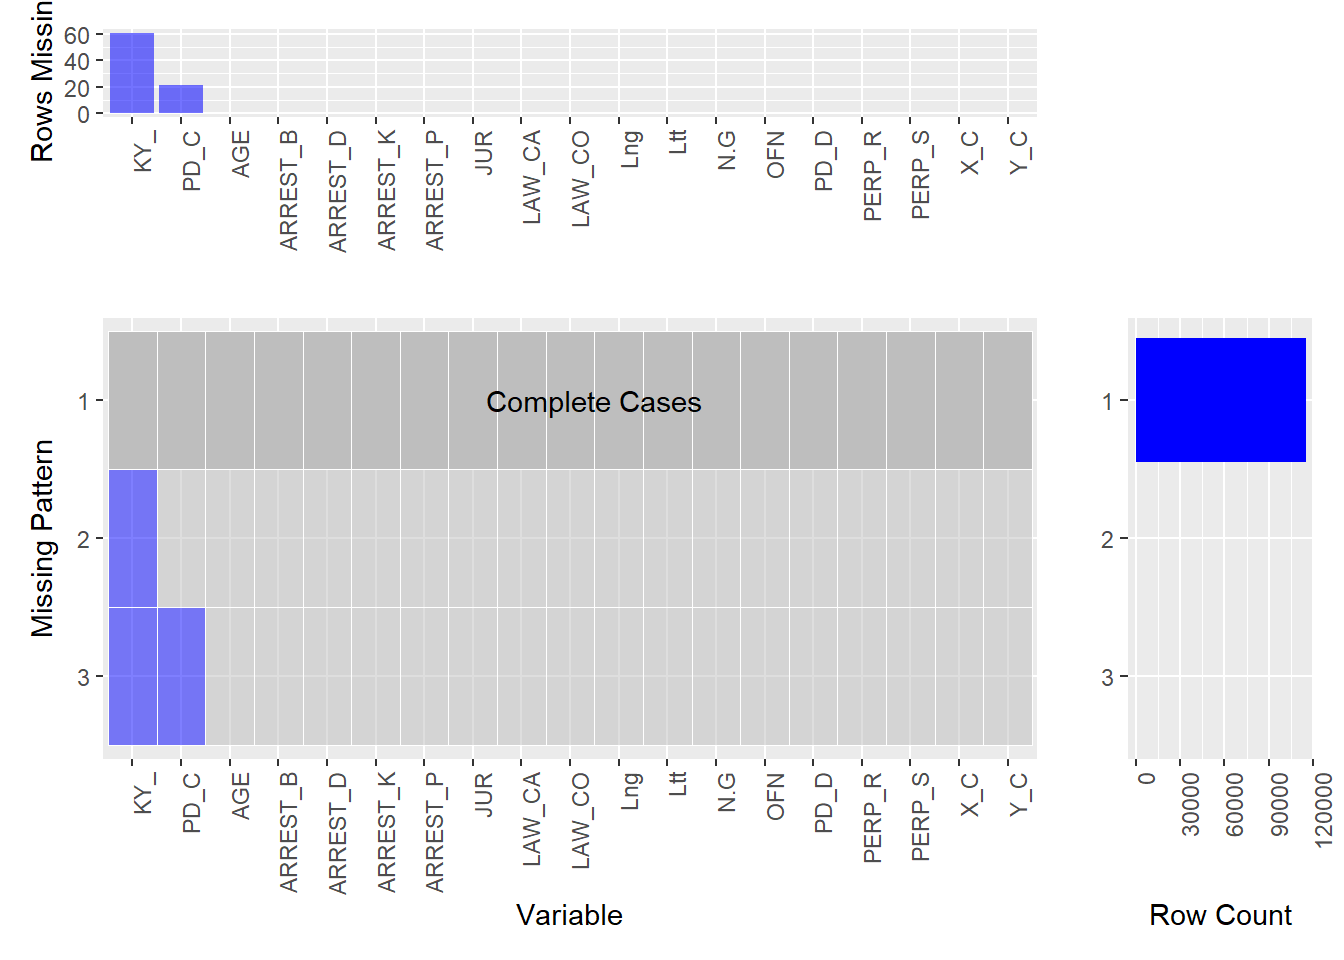
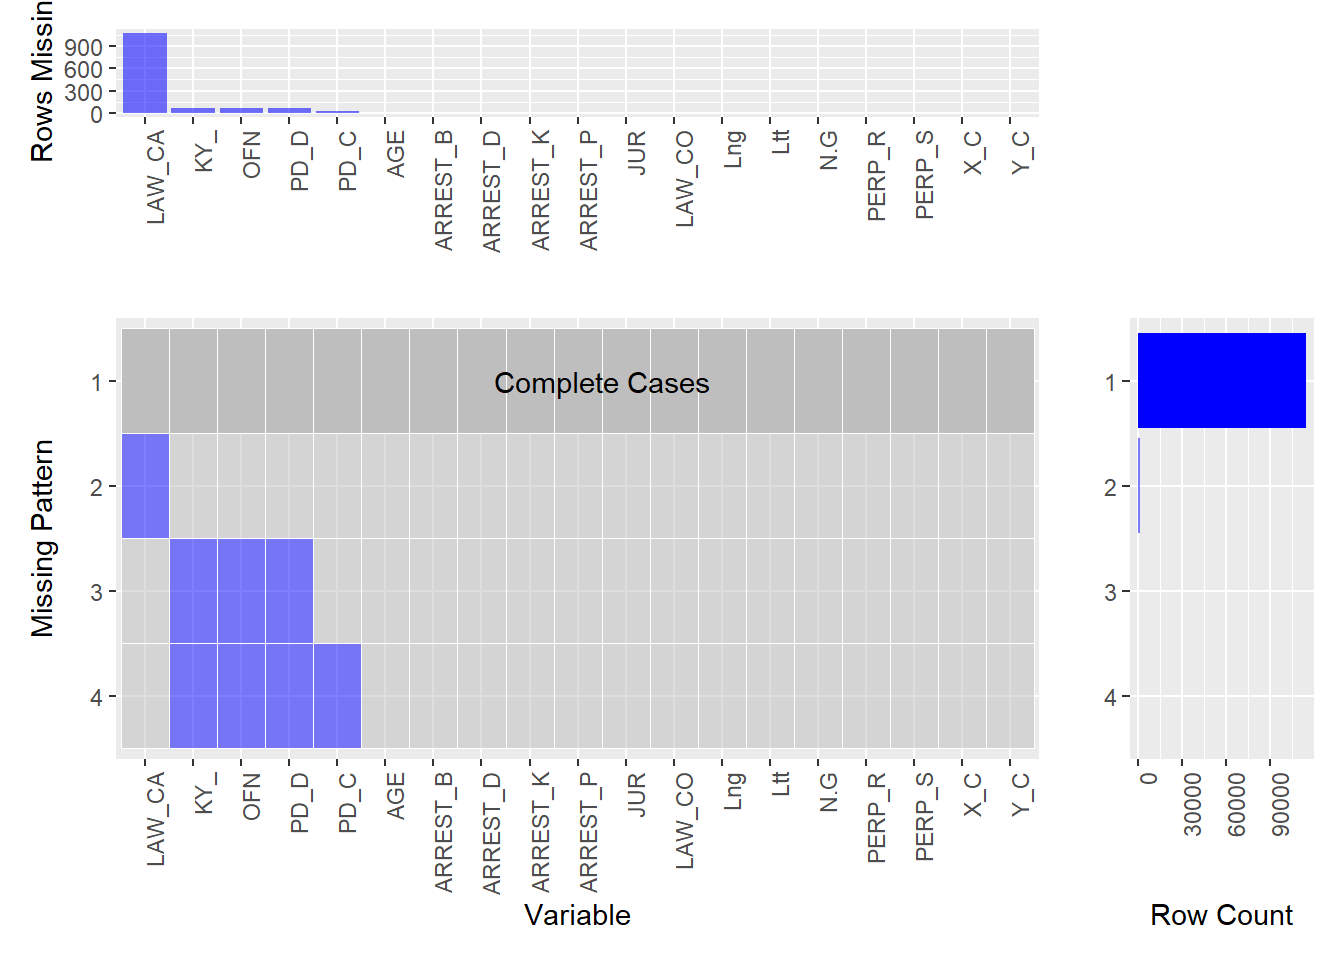
Minor tweaks to missing page.

diff --git a/docs/missing-values.html b/docs/missing-values.html
@@ -24,7 +24,7 @@
 <meta name="author" content="Ryan Rogers and Tyler Marshall" />
 
 
-<meta name="date" content="2021-11-17" />
+<meta name="date" content="2021-11-18" />
 
   <meta name="viewport" content="width=device-width, initial-scale=1" />
   <meta name="apple-mobile-web-app-capable" content="yes" />
@@ -84,9 +84,8 @@
 <li class="chapter" data-level="3" data-path="data-transformation.html"><a href="data-transformation.html"><i class="fa fa-check"></i><b>3</b> Data transformation</a></li>
 <li class="chapter" data-level="4" data-path="missing-values.html"><a href="missing-values.html"><i class="fa fa-check"></i><b>4</b> Missing values</a>
 <ul>
-<li class="chapter" data-level="4.1" data-path="missing-values.html"><a href="missing-values.html#composing-our-visualization-for-missing-data"><i class="fa fa-check"></i><b>4.1</b> Composing our Visualization for Missing Data</a></li>
-<li class="chapter" data-level="4.2" data-path="missing-values.html"><a href="missing-values.html#importing-the-arrests-dataset"><i class="fa fa-check"></i><b>4.2</b> Importing the Arrests Dataset</a></li>
-<li class="chapter" data-level="4.3" data-path="missing-values.html"><a href="missing-values.html#visualizing-the-missing-values"><i class="fa fa-check"></i><b>4.3</b> Visualizing the Missing Values</a></li>
+<li class="chapter" data-level="4.1" data-path="missing-values.html"><a href="missing-values.html#importing-the-arrests-dataset"><i class="fa fa-check"></i><b>4.1</b> Importing the Arrests Dataset</a></li>
+<li class="chapter" data-level="4.2" data-path="missing-values.html"><a href="missing-values.html#visualizing-the-missing-values"><i class="fa fa-check"></i><b>4.2</b> Visualizing the Missing Values</a></li>
 </ul></li>
 <li class="chapter" data-level="5" data-path="results.html"><a href="results.html"><i class="fa fa-check"></i><b>5</b> Results</a></li>
 <li class="chapter" data-level="6" data-path="interactive-component.html"><a href="interactive-component.html"><i class="fa fa-check"></i><b>6</b> Interactive component</a></li>
@@ -112,19 +111,17 @@
             <section class="normal" id="section-">
 <div id="missing-values" class="section level1" number="4">
 <h1><span class="header-section-number">Chapter 4</span> Missing values</h1>
-<div id="composing-our-visualization-for-missing-data" class="section level2" number="4.1">
-<h2><span class="header-section-number">4.1</span> Composing our Visualization for Missing Data</h2>
-<p>We start by introducing a function that will visualize missing values in our dataset. The code to do this can be seen below:</p>
+<div id="importing-the-arrests-dataset" class="section level2" number="4.1">
+<h2><span class="header-section-number">4.1</span> Importing the Arrests Dataset</h2>
+<p>We are now ready to look out our dataset. The main dataset for our project is data on New York City arrests. For this particular analysis, we will focus only on the NYC arrest data for the current year (2021).</p>
 </div>
-<div id="importing-the-arrests-dataset" class="section level2" number="4.2">
-<h2><span class="header-section-number">4.2</span> Importing the Arrests Dataset</h2>
-<p>We are now ready to look out our dataset. First, we import the data from its source:</p>
-</div>
-<div id="visualizing-the-missing-values" class="section level2" number="4.3">
-<h2><span class="header-section-number">4.3</span> Visualizing the Missing Values</h2>
-<p>Our last step will be to look at our dataset for missing values.</p>
-<p><img src="finalproj_files/figure-html/unnamed-chunk-8-1.png" width="672" /><img src="finalproj_files/figure-html/unnamed-chunk-8-2.png" width="672" /></p>
-<p>As we can see from the percentage visualization, there are only a small number of rows missing one of two columns: KY_CD (Key code), which is a generalized classification code, and PD_CD (Police Department code), which is a more granular code.</p>
+<div id="visualizing-the-missing-values" class="section level2" number="4.2">
+<h2><span class="header-section-number">4.2</span> Visualizing the Missing Values</h2>
+<p>Now that we have imported our data in its original form, we will look at our dataset for missing values. Before visualizing our missing values, however, we noticed that some of the entries in the data had empty strings (""), but were not classified as NA in the dataset. Since we felt these empty strings were the equivalent of NA, we changed them in our dataset before plotting our missing values.</p>
+<p><img src="finalproj_files/figure-html/unnamed-chunk-8-1.png" width="672" /></p>
+<p>From the first plot, we can see that there are 4 different patterns in our data with the most common pattern being no missing data. The plot above shows that there isn’t too much missing data in our dataset, but there are still a few variables that had missing values. The most common pattern where there was missing data is for just <code>LAW_CA</code> to be missing, and this happened around 1000 times in our dataset. <code>LAW_CA</code> is the level of the offense (felony, misdemeanor or violation), so it seems this is not always documented when the arrest occurs. The second most common pattern where data was missing was for the data to be missing <code>KY_</code>, <code>OFN</code>, and <code>PD_D</code>. This pattern was far less common and occurred under 100 times out of the 115,299 observations in the data. <code>KY_</code> is an internal classification keycode, <code>OFN</code> is a description of internal classification, and <code>PD_D</code> is a description of internal classification that is more granular than <code>OFN</code>. It seems that on occasion these codes and descriptions were not filled in when the arrest was made. The final pattern contains <code>KY_</code>, <code>OFN</code>, <code>PD_D</code> again, but also contains <code>PD_C</code>. <code>PD_C</code> is another internal classification code that is more granular than <code>KY_</code>. This pattern is very similar to previous one, but contains another missing variable that is similar to the others. We also want to plot our missing data showing percentage missing instead of number of rows missing.</p>
+<p><img src="finalproj_files/figure-html/unnamed-chunk-9-1.png" width="672" /></p>
+<p>The patterns are the same as the plot above, but this plot emphasizes the limited amount of missing data in our dataset. The portion of missing data is very small for our dataset, which is a good sign for our analysis. If there is too much missing data, the analysis can be much more challenging, but this is not the case with our NYC arrests data.</p>
 
 </div>
 </div>

diff --git a/docs/404.html b/docs/404.html
@@ -24,7 +24,7 @@
 <meta name="author" content="Ryan Rogers and Tyler Marshall" />
 
 
-<meta name="date" content="2021-11-17" />
+<meta name="date" content="2021-11-18" />
 
   <meta name="viewport" content="width=device-width, initial-scale=1" />
   <meta name="apple-mobile-web-app-capable" content="yes" />
@@ -84,9 +84,8 @@
 <li class="chapter" data-level="3" data-path="data-transformation.html"><a href="data-transformation.html"><i class="fa fa-check"></i><b>3</b> Data transformation</a></li>
 <li class="chapter" data-level="4" data-path="missing-values.html"><a href="missing-values.html"><i class="fa fa-check"></i><b>4</b> Missing values</a>
 <ul>
-<li class="chapter" data-level="4.1" data-path="missing-values.html"><a href="missing-values.html#composing-our-visualization-for-missing-data"><i class="fa fa-check"></i><b>4.1</b> Composing our Visualization for Missing Data</a></li>
-<li class="chapter" data-level="4.2" data-path="missing-values.html"><a href="missing-values.html#importing-the-arrests-dataset"><i class="fa fa-check"></i><b>4.2</b> Importing the Arrests Dataset</a></li>
-<li class="chapter" data-level="4.3" data-path="missing-values.html"><a href="missing-values.html#visualizing-the-missing-values"><i class="fa fa-check"></i><b>4.3</b> Visualizing the Missing Values</a></li>
+<li class="chapter" data-level="4.1" data-path="missing-values.html"><a href="missing-values.html#importing-the-arrests-dataset"><i class="fa fa-check"></i><b>4.1</b> Importing the Arrests Dataset</a></li>
+<li class="chapter" data-level="4.2" data-path="missing-values.html"><a href="missing-values.html#visualizing-the-missing-values"><i class="fa fa-check"></i><b>4.2</b> Visualizing the Missing Values</a></li>
 </ul></li>
 <li class="chapter" data-level="5" data-path="results.html"><a href="results.html"><i class="fa fa-check"></i><b>5</b> Results</a></li>
 <li class="chapter" data-level="6" data-path="interactive-component.html"><a href="interactive-component.html"><i class="fa fa-check"></i><b>6</b> Interactive component</a></li>
